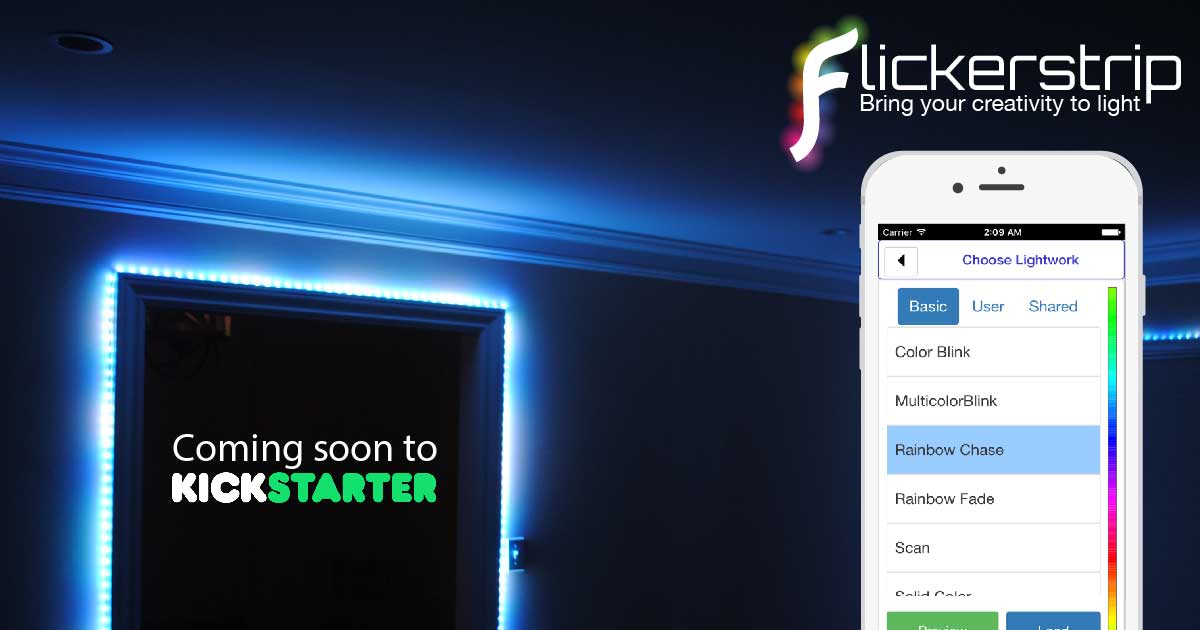
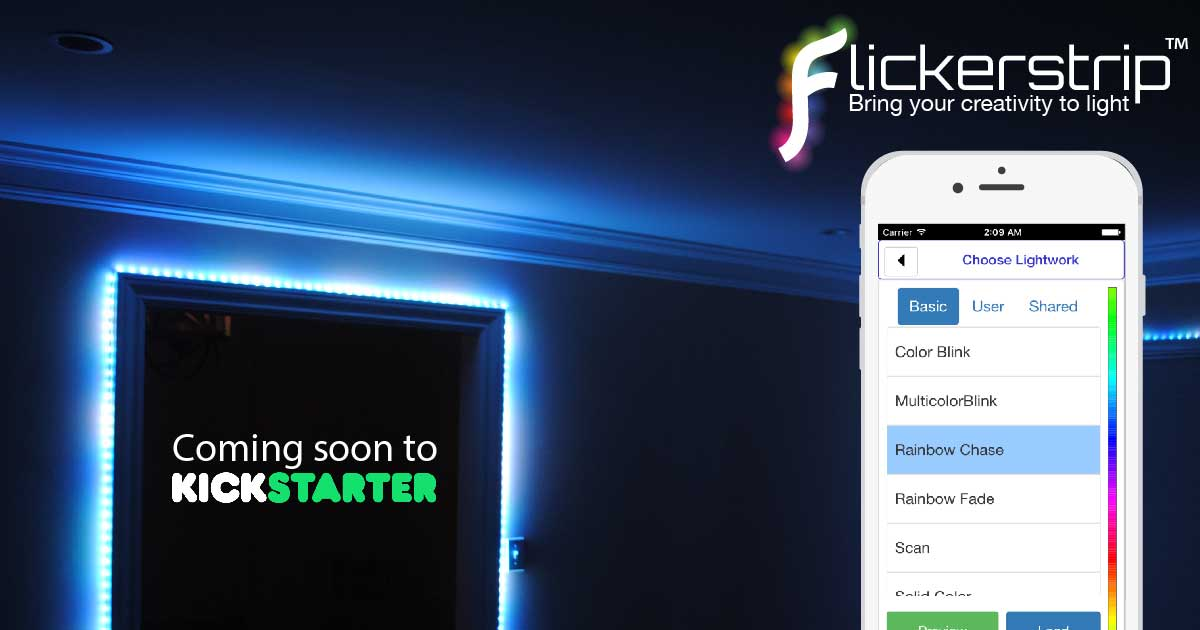
adding tm symbol, fixing share

Changed region(s): [[0.6167, 0.0302, 1.0, 0.2714]]

diff --git a/countdown/index.html b/countdown/index.html
@@ -96,8 +96,8 @@ custom_head: |
 				<h2>3. Share</h2>
 				<div class="divbody">
 					Don't let your friends miss out either<br/>
-					<a href="https://www.facebook.com/sharer/sharer.php?u=http://flickerstrip.com/countdown" class="shareButton facebook"></a>
-					<a href="https://twitter.com/home?status=http://flickerstrip.com/countdown" class="shareButton twitter"></a>
+					<a href="https://www.facebook.com/sharer/sharer.php?u=http://flickerstrip.com/countdown/" class="shareButton facebook"></a>
+					<a href="https://twitter.com/home?status=http://flickerstrip.com/countdown/" class="shareButton twitter"></a>
 				</div>
 			</div>
 		</div>

diff --git a/_includes/header.html b/_includes/header.html
@@ -9,7 +9,7 @@
 			            </a>
 		            </div>
 		            <div class="logoText">
-		                <a class="title" href="/" >lickerstrip</a>
+		                <a class="title" href="/" >lickerstrip</a><span class="tm"></span>
 		                <span class="tag">Bring your creativity to light</span>
 	                </div>
 		        </div>

diff --git a/resources/css/global.less b/resources/css/global.less
@@ -7,6 +7,13 @@
 
 @primary: #3399ff; //blue
 
+.tm:after {
+	content: '\2122';
+	font-size: 10px;
+	position: relative;
+	bottom: 20px;
+}
+
 a {
 	color: @primary;
 	&:hover {
